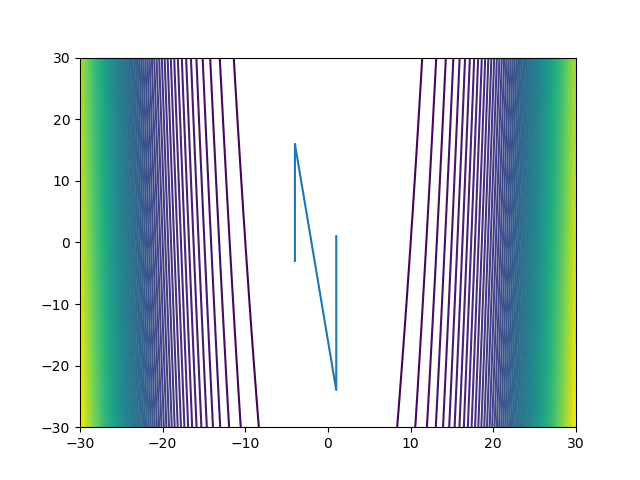
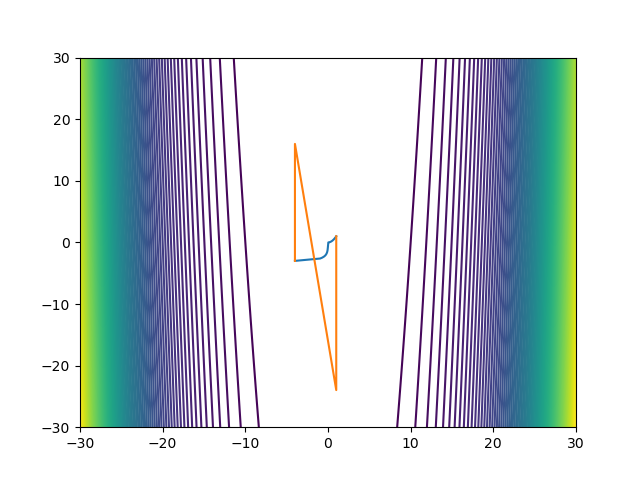
回数増加

Changed region(s): [[0.4375, 0.375, 0.5312, 0.8125], [0.4375, 0.3125, 0.4688, 0.375]]

diff --git a/system2_1_2.py b/system2_1_2.py
@@ -15,7 +15,7 @@ x_star = np.array([
 
 x = np.zeros((2,1),dtype = np.float64)
 
-a_gd_list = [0.01, 0.1, 0.5]
+a_gd_list = [0.0001, 0.1, 0.5]
 
 def J(x):
 
@@ -100,7 +100,7 @@ def main():
         print(a_gd)
         print(x)
         
-        for i in tqdm(range(100)):
+        for i in tqdm(range(100000)):
             
             x += gradient_descent(a_gd, x)
             
@@ -137,7 +137,7 @@ def main():
     # ax3.contour(X, Y, Z, 100)
     
     ax0 = fig.add_subplot(1,1,1)
-    # ax0.plot(x_data[0], y_data[0])
+    ax0.plot(x_data[0], y_data[0])
     # ax0.plot(x_data[1], y_data[1])
     # ax0.plot(x_data[2], y_data[2])
     ax0.plot(x_data[3], y_data[3])

diff --git a/system2_1_1.py b/system2_1_1.py
@@ -111,7 +111,7 @@ def main():
         print(a_gd)
         print(x)
         
-        for i in tqdm(range(100)):
+        for i in tqdm(range(1000)):
             
             x += gradient_descent(a_gd, x)
             
